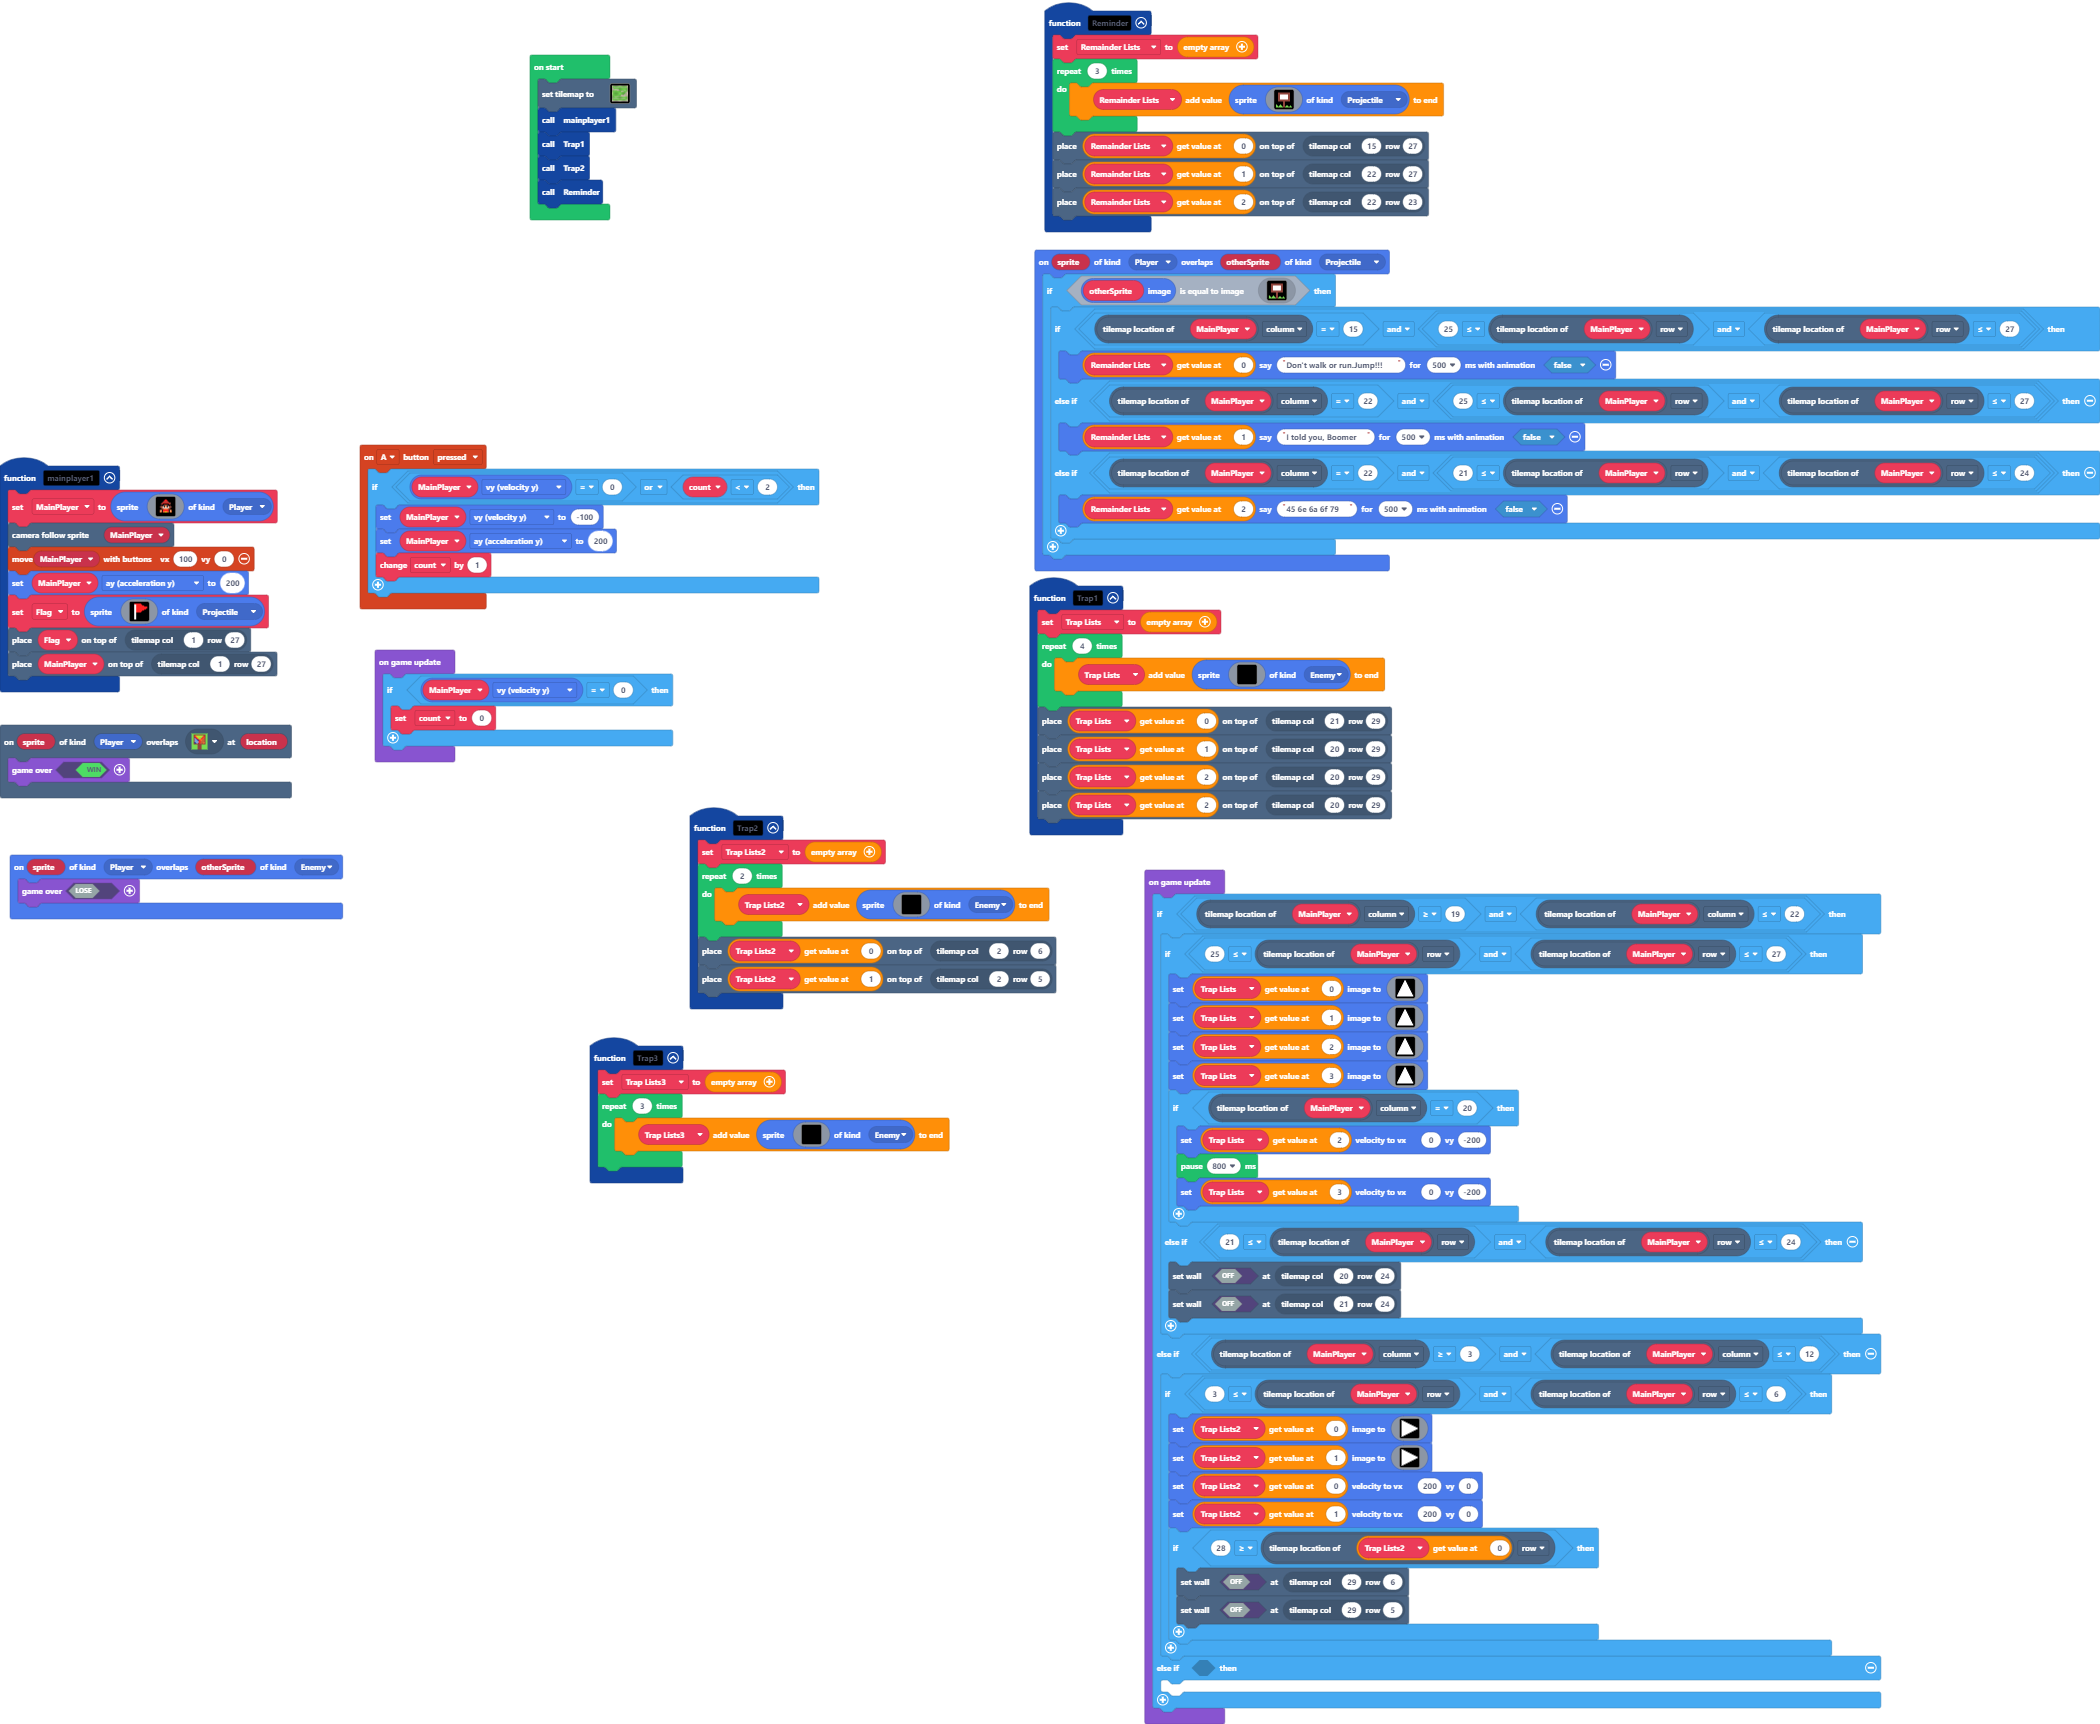
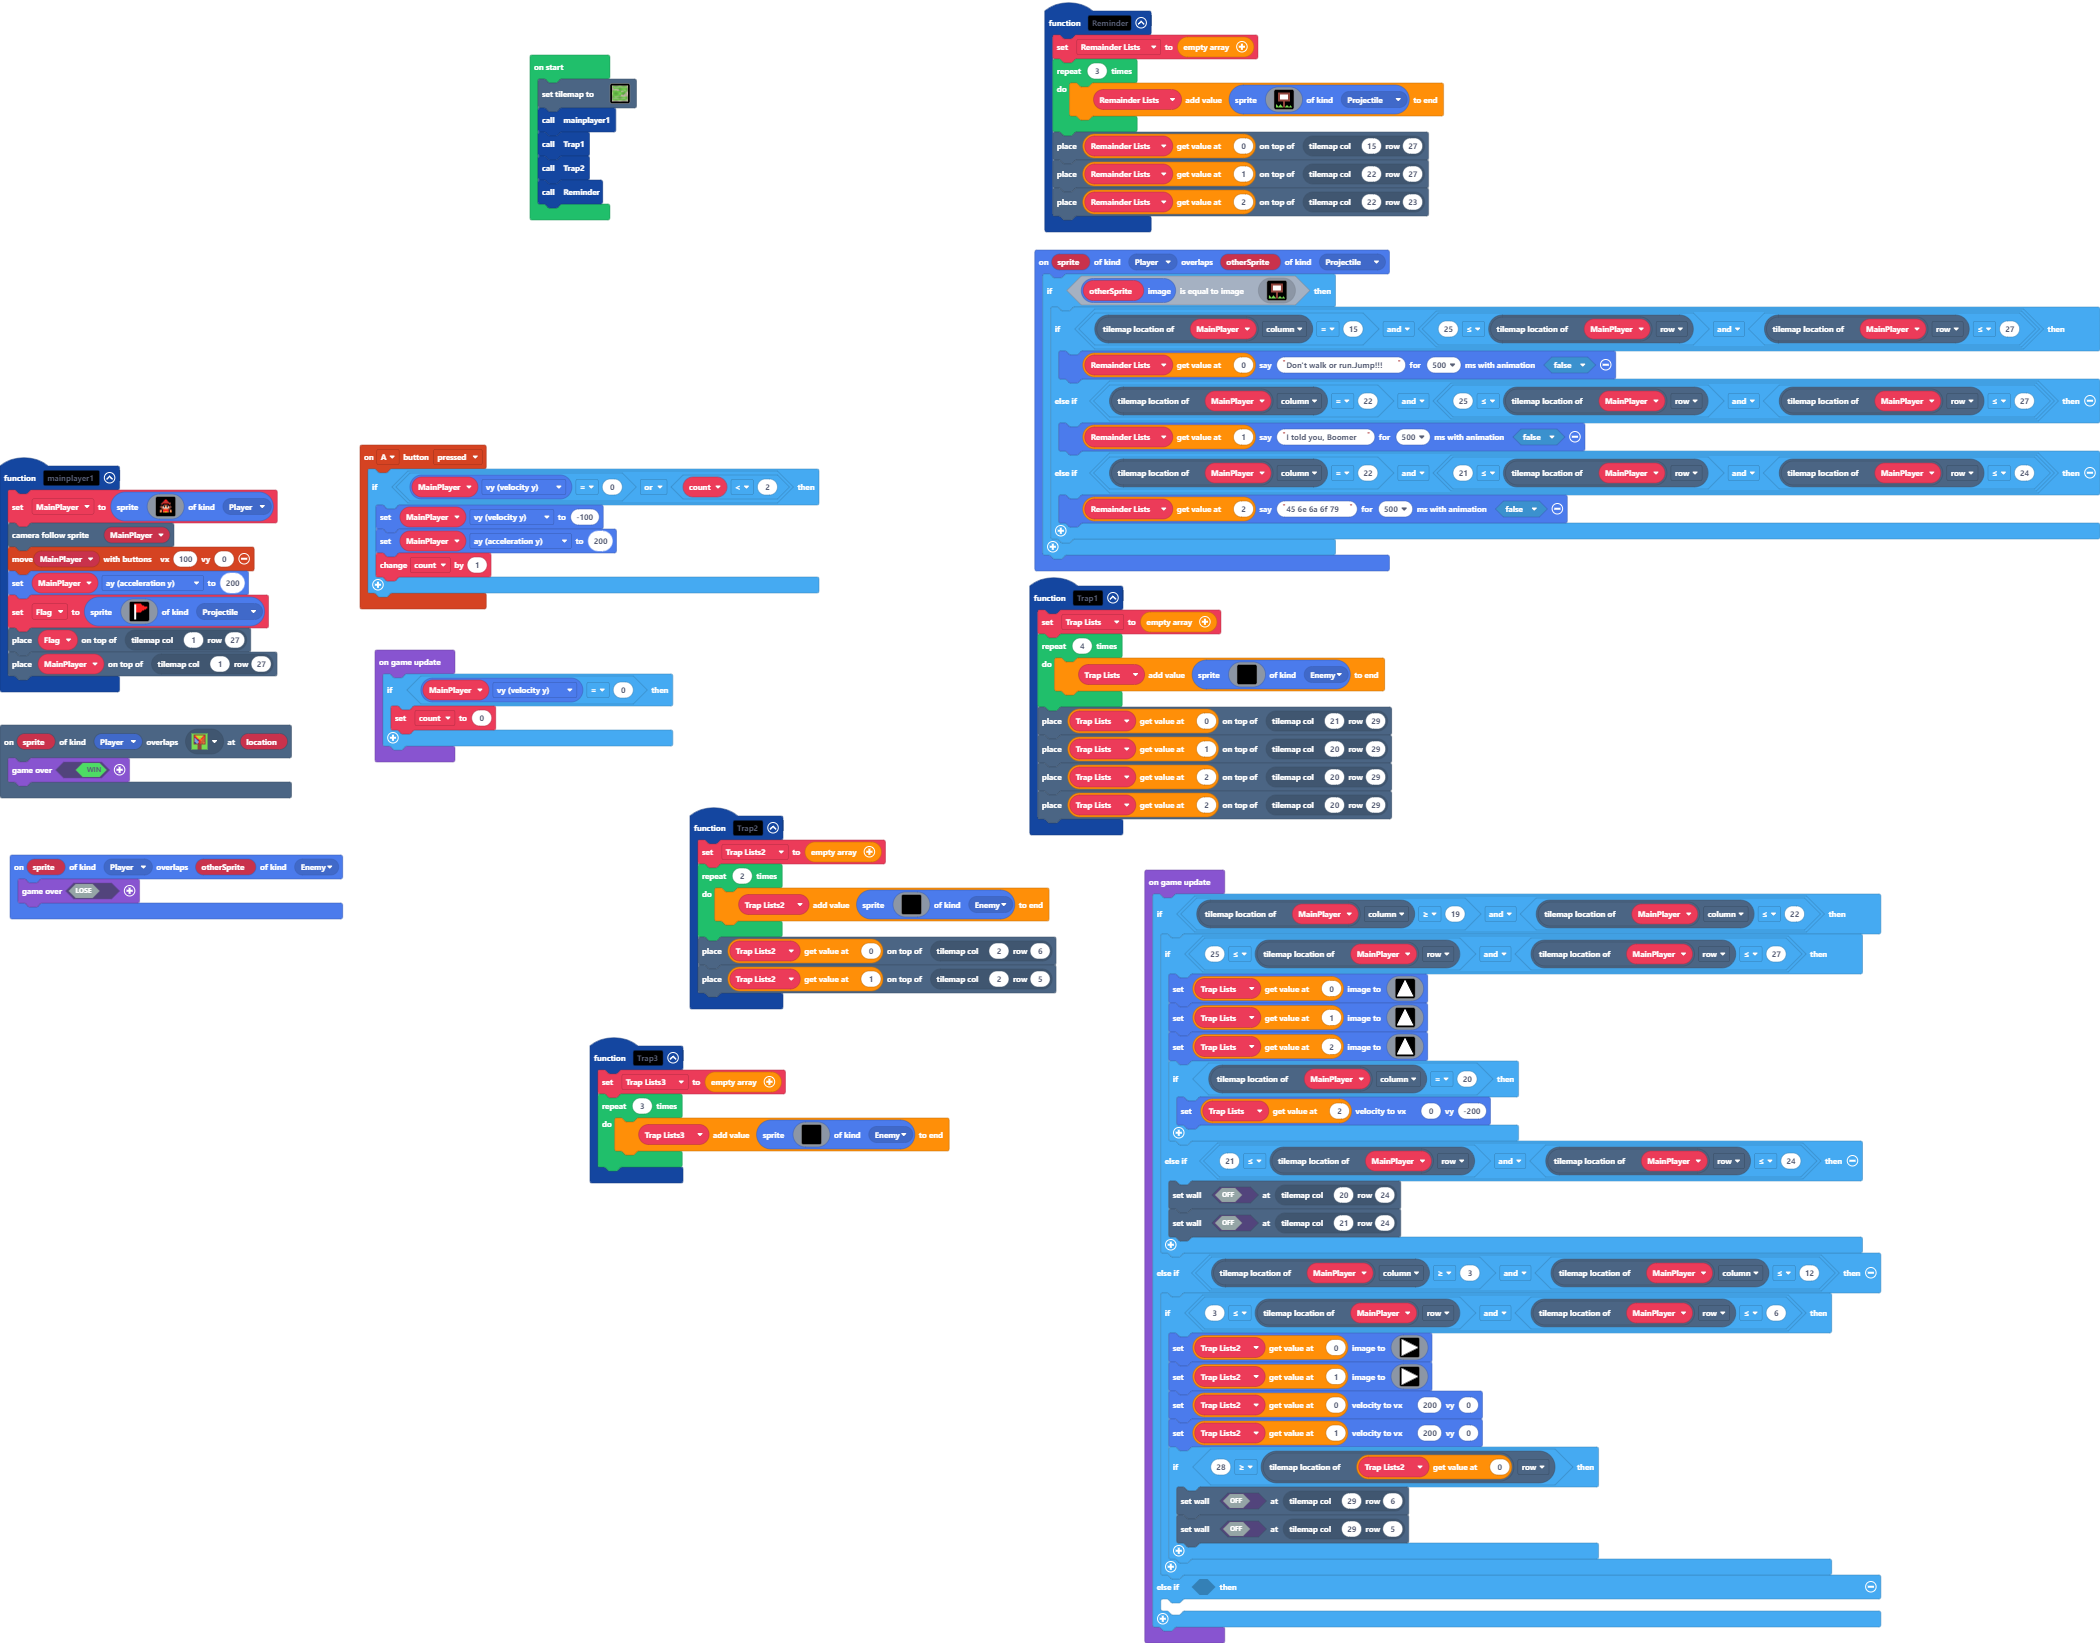
Update main.blocks, main.ts

Changed region(s): [[0.0, 0.0, 1.0, 0.9933], [0.2476, 0.031, 0.3095, 0.1552]]

diff --git a/main.ts b/main.ts
@@ -257,28 +257,8 @@ game.onUpdate(function () {
                 1 1 1 1 1 1 1 1 1 1 1 1 1 1 1 1 
                 1 1 1 1 1 1 1 1 1 1 1 1 1 1 1 1 
                 `)
-            Trap_Lists[3].setImage(img`
-                . . . . . . . 1 1 . . . . . . . 
-                . . . . . . . 1 1 . . . . . . . 
-                . . . . . . 1 1 1 1 . . . . . . 
-                . . . . . . 1 1 1 1 . . . . . . 
-                . . . . . 1 1 1 1 1 1 . . . . . 
-                . . . . . 1 1 1 1 1 1 . . . . . 
-                . . . . 1 1 1 1 1 1 1 1 . . . . 
-                . . . . 1 1 1 1 1 1 1 1 . . . . 
-                . . . 1 1 1 1 1 1 1 1 1 1 . . . 
-                . . . 1 1 1 1 1 1 1 1 1 1 . . . 
-                . . 1 1 1 1 1 1 1 1 1 1 1 1 . . 
-                . . 1 1 1 1 1 1 1 1 1 1 1 1 . . 
-                . 1 1 1 1 1 1 1 1 1 1 1 1 1 1 . 
-                . 1 1 1 1 1 1 1 1 1 1 1 1 1 1 . 
-                1 1 1 1 1 1 1 1 1 1 1 1 1 1 1 1 
-                1 1 1 1 1 1 1 1 1 1 1 1 1 1 1 1 
-                `)
             if (MainPlayer.tilemapLocation().column == 20) {
                 Trap_Lists[2].setVelocity(0, -200)
-                pause(800)
-                Trap_Lists[3].setVelocity(0, -200)
             }
         } else if (21 <= MainPlayer.tilemapLocation().row && MainPlayer.tilemapLocation().row <= 24) {
             tiles.setWallAt(tiles.getTileLocation(20, 24), false)
